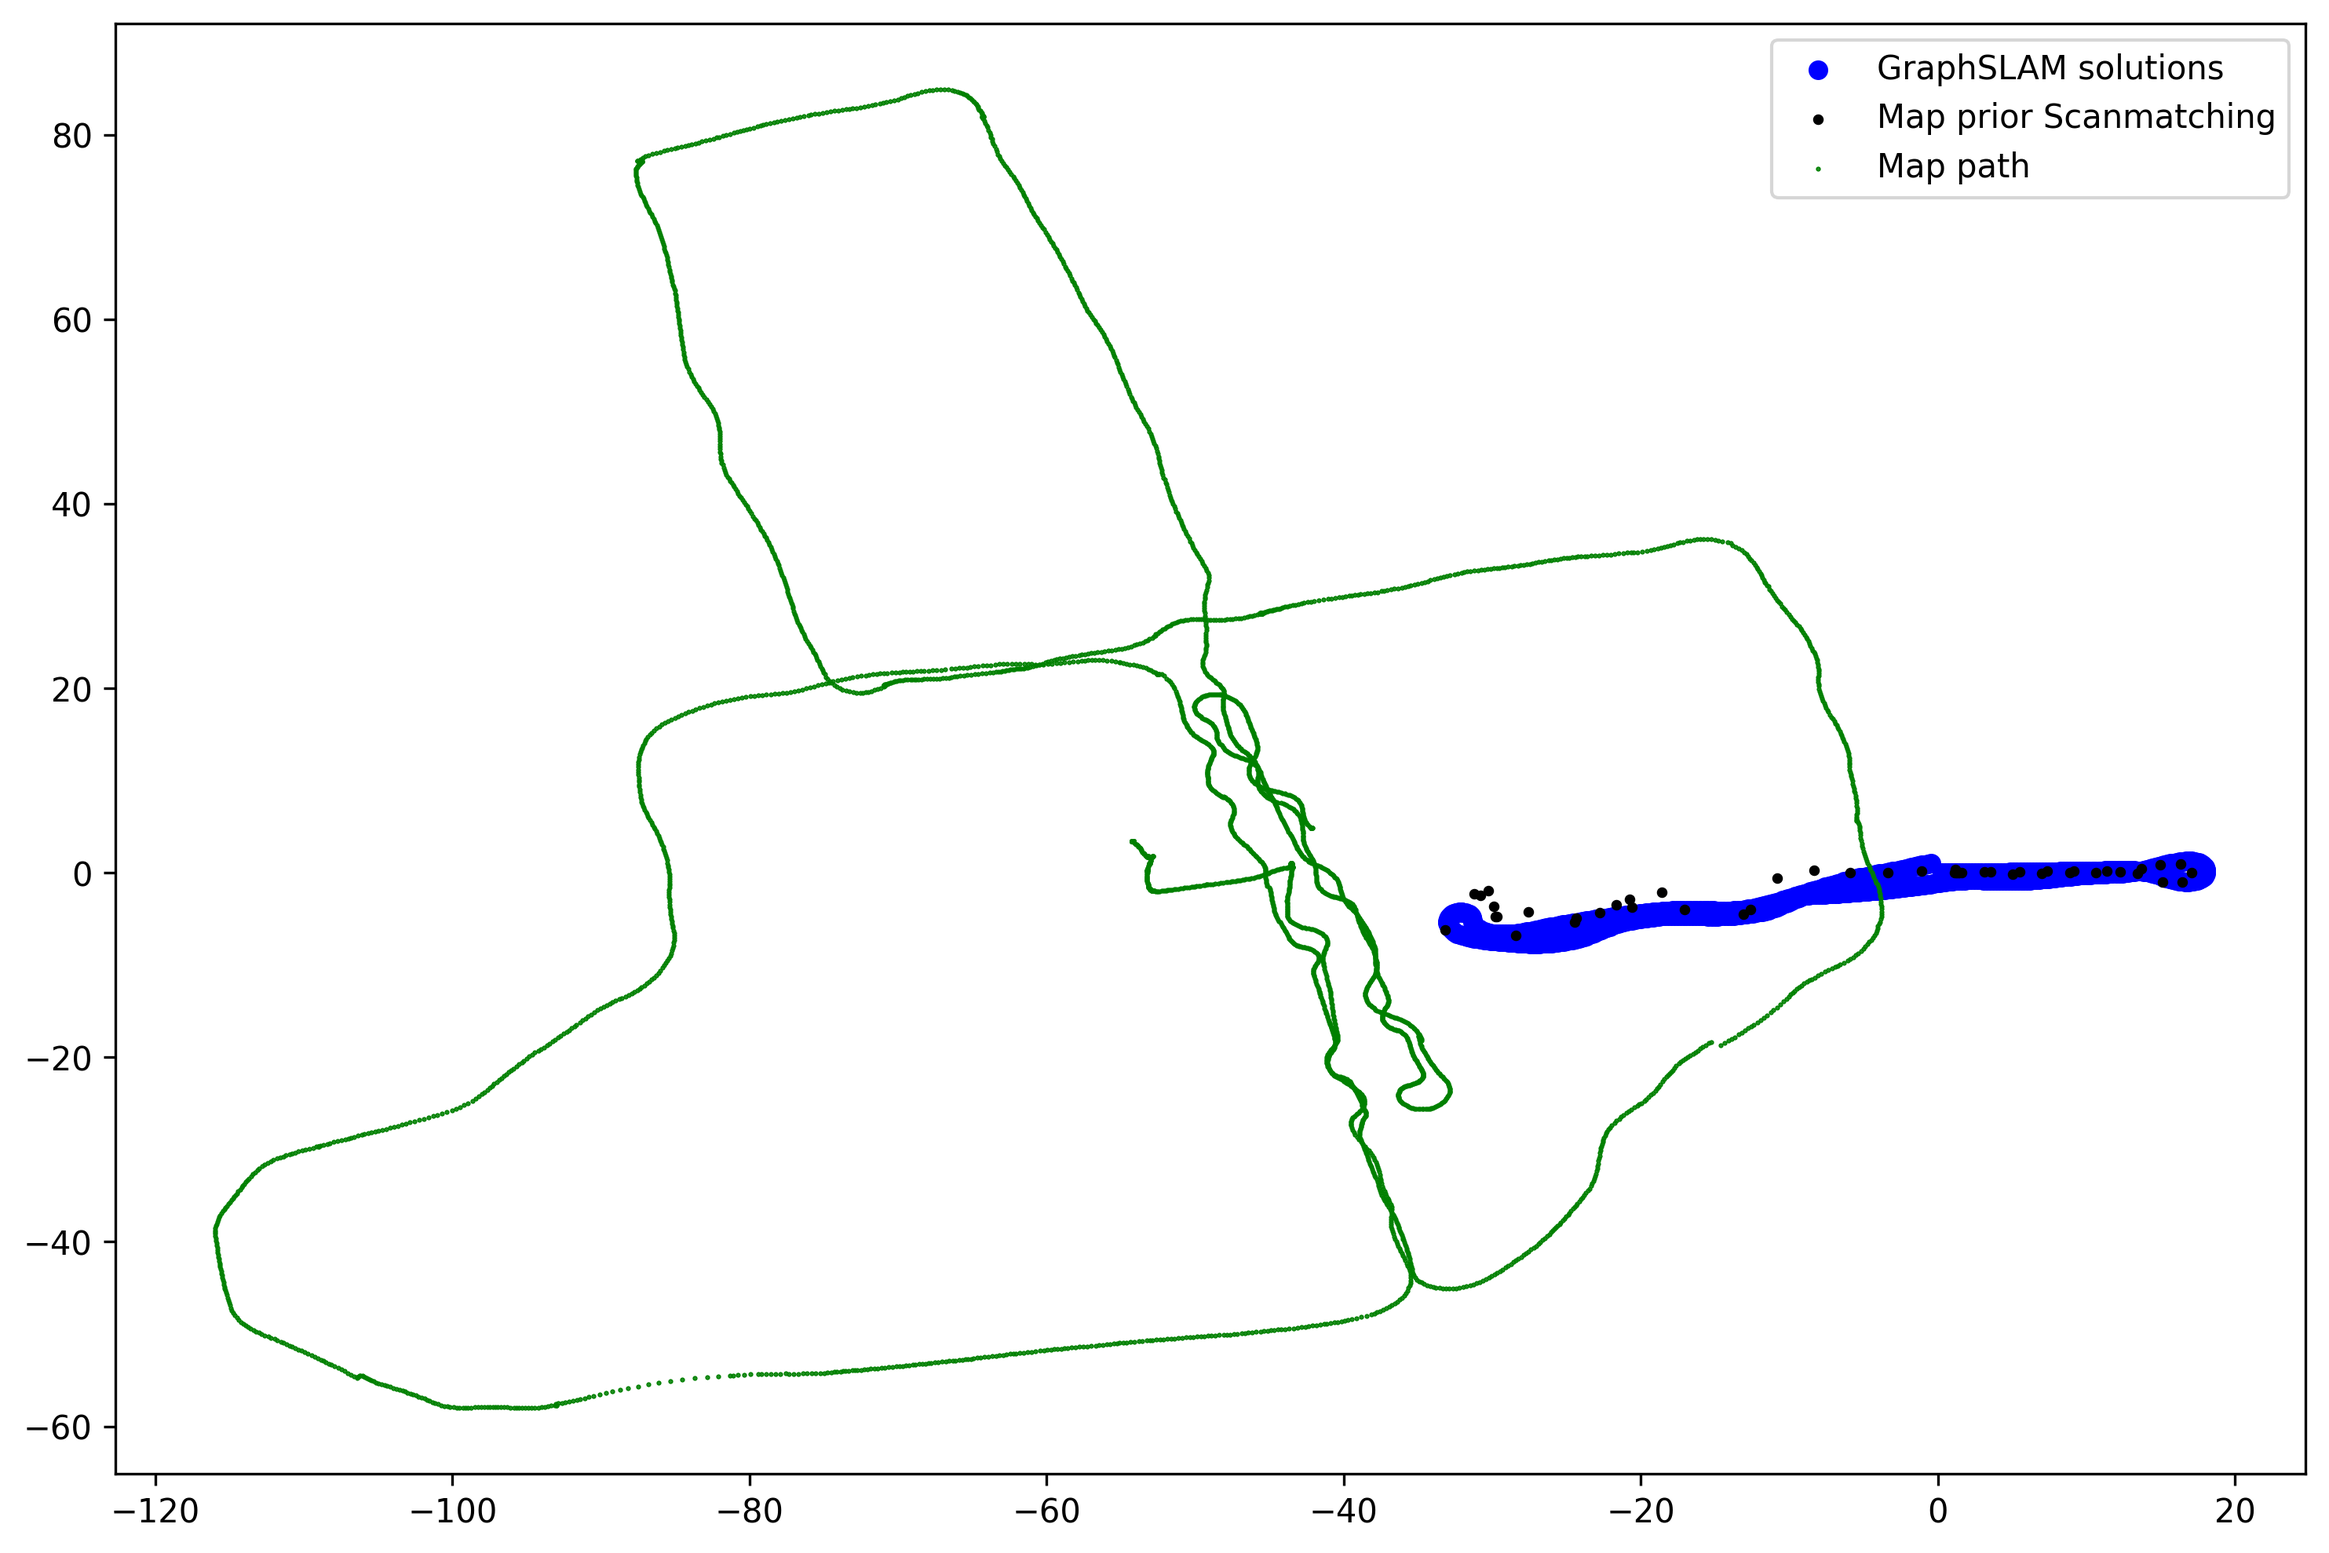
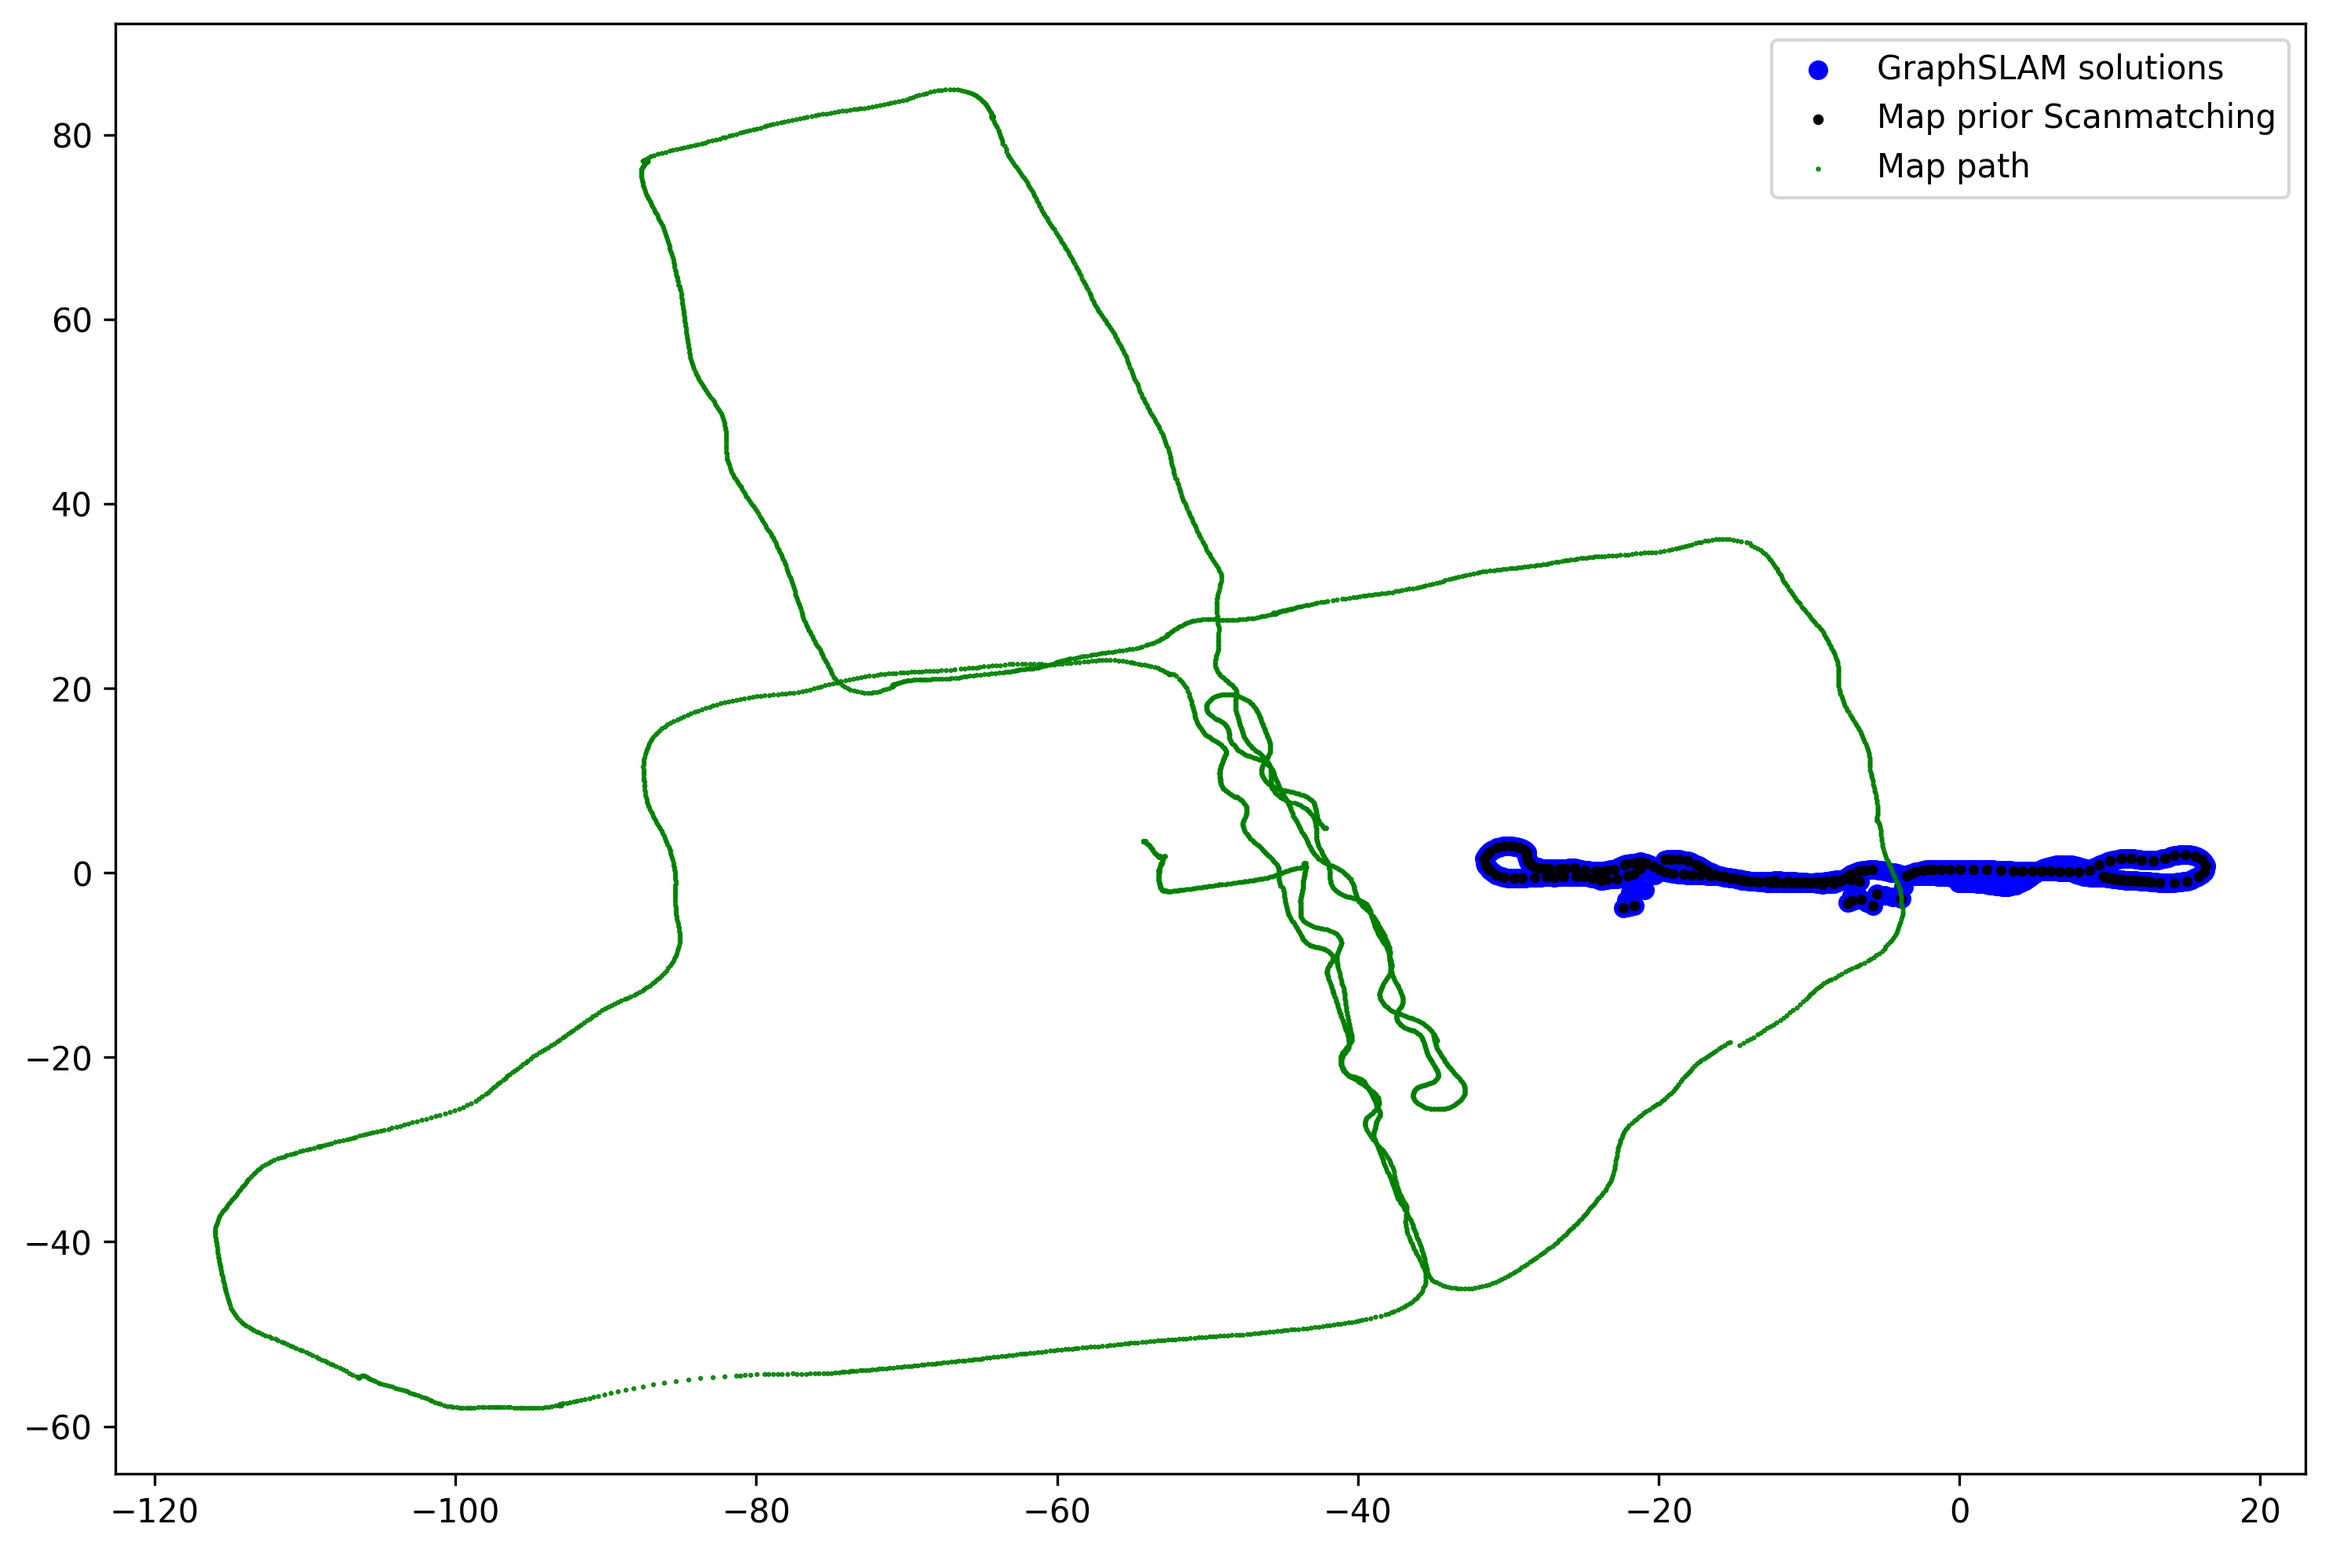
added computation times

diff --git a/run_scanmatcher_to_global_map.py b/run_scanmatcher_to_global_map.py
@@ -98,7 +98,7 @@ class GlobalMap():
 
     def perform_global_localization_of_scan_i(self, local_scan, initial_guess, show=False):
         voxel_size_local_scan = 0.2
-
+        # show = True
         print("[INFO] Local scan loaded with", len(local_scan.pointcloud.points), "points.")
 
         # local_scan.filter_height(heights=heights)
@@ -109,9 +109,29 @@ class GlobalMap():
         # 2. Load or simulate a new LiDAR scan (local point cloud)
         # local_scan = o3d.io.read_point_cloud("local_scan.pcd")
 
+        # reduce to a local map, reduce the number of points
+        global_map_temp = self.global_map
+        x = initial_guess.array[0][3]
+        y = initial_guess.array[1][3]
+        ##
+        # self.global_map_temp.filter_coordinates(x_limits=(x-12, x+12), y_limits=(y-12,y+12), z_limits=(-20, 20))
+        x_min = x-20.0
+        x_max = x+20
+        y_min = y-20
+        y_max = y+20
+        z_min = -20
+        z_max = 20
+        points = np.asarray(global_map_temp.points)
+        [x, y, z] = points[:, 0], points[:, 1], points[:, 2]
+        idx = np.where((x > x_min) & (x < x_max) & (y > y_min) & (y < y_max) & (z > z_min) & (z < z_max))
+        global_map_temp = o3d.geometry.PointCloud(o3d.utility.Vector3dVector(points[idx]))
+        global_map_temp.estimate_normals(o3d.geometry.KDTreeSearchParamHybrid(radius=0.3,
+                                                               max_nn=50))
+        ##
+
         # 6. ICP registration (use as NDT substitute)
         reg_result = o3d.pipelines.registration.registration_icp(
-            local_scan.pointcloud, self.global_map, max_correspondence_distance=5.0,
+            local_scan.pointcloud, global_map_temp, max_correspondence_distance=8.0,
             init=initial_guess.array,
             estimation_method=o3d.pipelines.registration.TransformationEstimationPointToPlane()
         )
@@ -122,7 +142,7 @@ class GlobalMap():
             # 7. Visualize result
             local_scan.transform(reg_result.transformation)
             # filter height of result
-            points = np.asarray(self.global_map.points)
+            points = np.asarray(global_map_temp.points)
             # [x, y, z] = points[:, 0], points[:, 1], points[:, 2]
             idx2 = np.where((points[:, 2] > -1.0) & (points[:, 2] < 1.5))
             global_map_filtered=o3d.geometry.PointCloud(o3d.utility.Vector3dVector(points[idx2]))

diff --git a/graphSLAM/helper_functions.py b/graphSLAM/helper_functions.py
@@ -152,16 +152,13 @@ def update_prior_map_observations(nodeloc):
     first_index_in_graphslam = nodeloc.last_processed_index['MAPSM']
     # running through the nodes of the graph (non visited yet). Looking for gps observations at that time
     for i in range(first_index_in_graphslam, len(nodeloc.graphslam_times)):
-        # index_graph_i = int(nodeloc.map_sm_prior_buffer_index[i])
-        # if the index in the graph has been processed: do not repeat.
-        # if index_graph_i in nodeloc.graphslam_observations_indices['MAPSM']:
-        #     continue
+    # for i in range(0, len(nodeloc.graphslam_times)):
         # get the corresponding time
         timestamp_i_in_graphslam = nodeloc.graphslam_times[i]
 
         # find the interpolation that corresponds to that particular time in the graph
         prior_i, _ = nodeloc.map_sm_prior_buffer.interpolated_pose_at_time(timestamp_i_in_graphslam,
-                                                                        delta_threshold_s=2.0)
+                                                                        delta_threshold_s=3.0)
         if prior_i is None:
             print('No estimation found')
             continue
@@ -169,7 +166,7 @@ def update_prior_map_observations(nodeloc):
         # add_prior_factor, this is the localization according to the map scanmatching node.
         nodeloc.graphslam.add_prior_factor(Trobot_prior, i, 'MAPSM')
         nodeloc.graphslam_observations_indices['MAPSM'].add(i)
-        nodeloc.last_processed_index['MAPSM'] = i + 1
+        nodeloc.last_processed_index['MAPSM'] = max(0, i - 5)
 
 
     # # loop through the received prior estimations.

diff --git a/observations/lidarbuffer.py b/observations/lidarbuffer.py
@@ -213,6 +213,20 @@ class LidarScan():
         idx2 = np.where((z > min_height) & (z < max_height))
         return o3d.geometry.PointCloud(o3d.utility.Vector3dVector(points[idx2]))
 
+    def filter_coordinates(self, x_limits, y_limits, z_limits):
+        x_min = x_limits[0]
+        x_max = x_limits[1]
+        y_min = y_limits[0]
+        y_max = y_limits[1]
+        z_min = z_limits[0]
+        z_max = z_limits[1]
+        points = np.asarray(self.pointcloud.points)
+        [x, y, z] = points[:, 0], points[:, 1], points[:, 2]
+        idx1 = np.where((x > x_min) & (x < x_max))
+        idx2 = np.where((y > y_min) & (y < y_max))
+        idx3 = np.where((z > z_min) & (z < z_max))
+        return o3d.geometry.PointCloud(o3d.utility.Vector3dVector(points[idx1&idx2&idx3]))
+
     def estimate_normals(self, voxel_size_normals, max_nn_estimate_normals):
         self.pointcloud.estimate_normals(
              o3d.geometry.KDTreeSearchParamHybrid(radius=voxel_size_normals,
